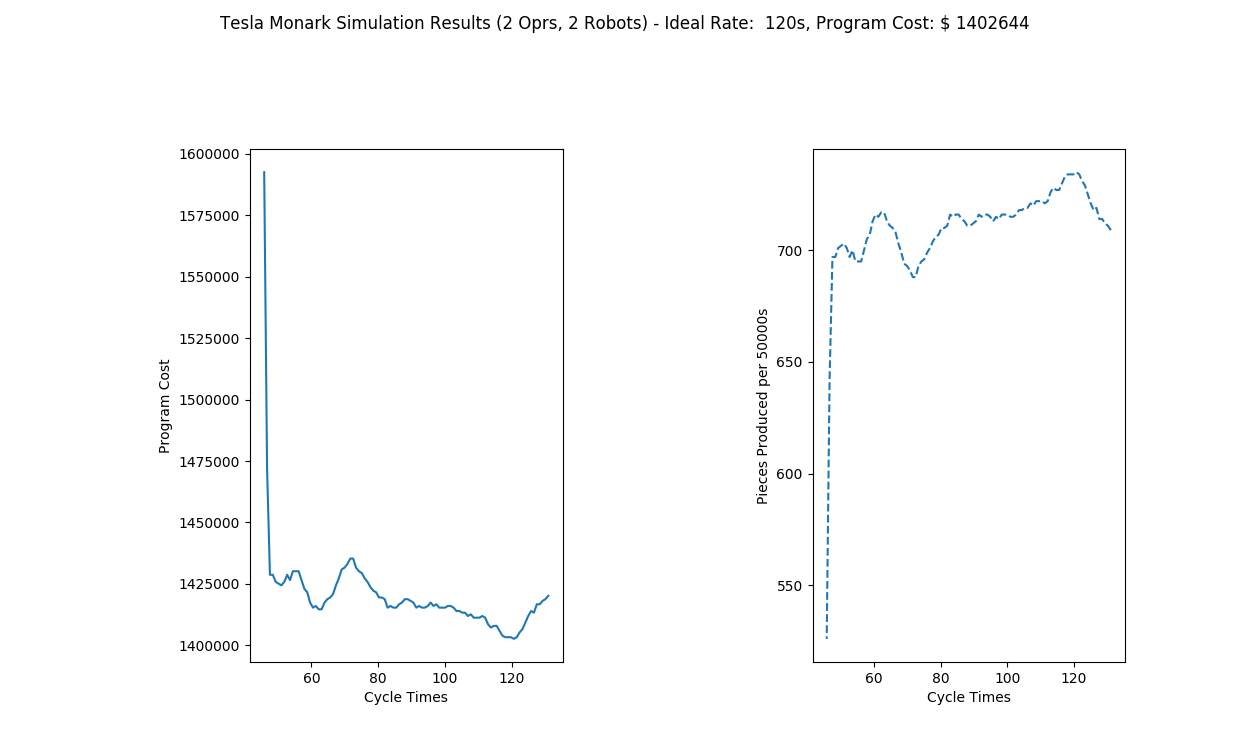
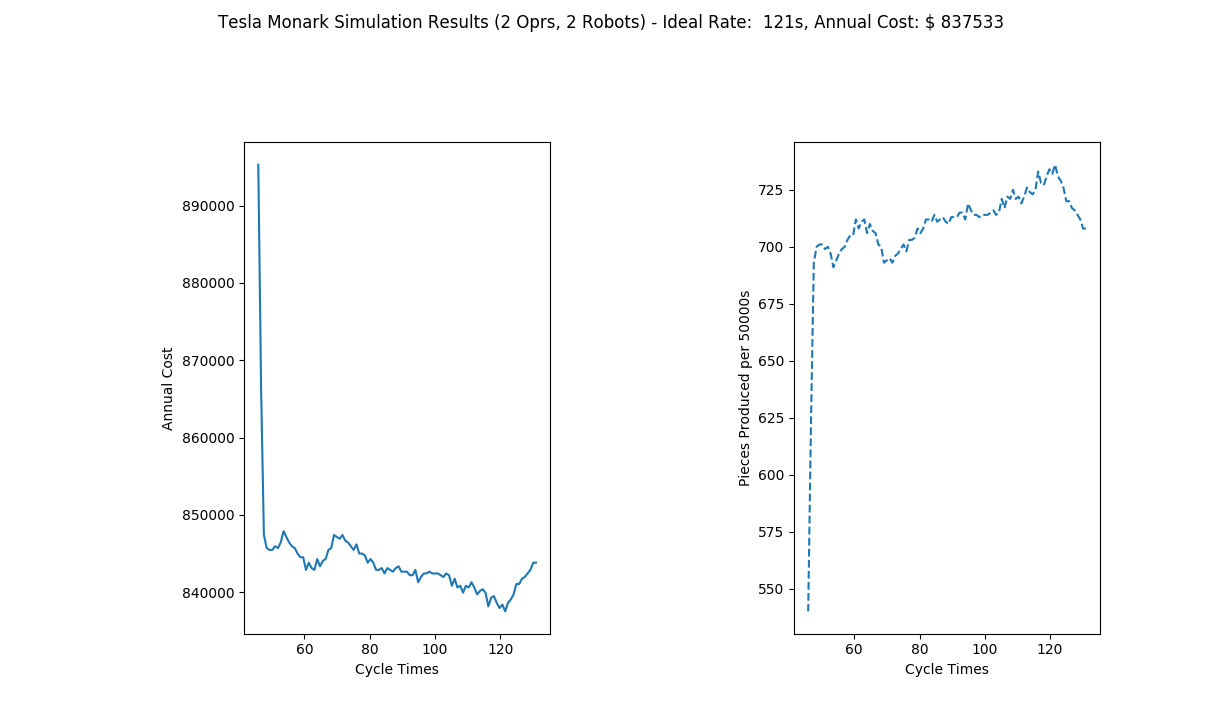
Added packaging costs, changed to annual instead of program life

diff --git a/tesla.py b/tesla.py
@@ -10,8 +10,7 @@ class G:
 	#Environment constants
 	SIMULATION_TIME = 50000
 	EAU = 120000
-	PROGRAM_LIFE = 3
-	seed(seed=23)
+	seed(seed=10)
 	
 	#Operator constants
 	MAIN_OPERATORS = 1
@@ -28,7 +27,7 @@ class G:
 	ROUTER_LOAD_TIME = 10.97
 	ROUTER_LOAD_TIME_STDEV = 1.19
 	ROUTER_UNLOAD_TIME = 17.43
-	ROUTER_UNLOAD_TIME_STDEV = 2.46
+	ROUTER_UNLOAD_TIME_STDEV = 5.46
 	ROUTER_YIELD = 1
 	
 	LOAD_STATION_LOAD_TIME = 15
@@ -42,24 +41,24 @@ class G:
 	THERMOFORMER_RUNTIME_STDEV = 0.50
 	
 	SPLITTER_CAPACITY = 1
-	SPLITTER_RUNTIME = 8
-	SPLITTER_RUNTIME_STDEV = 1
+	SPLITTER_RUNTIME = 8.58
+	SPLITTER_RUNTIME_STDEV = 0.75
 	SPLITTER_YIELD = 2
 	
 	TRIMMER_CAPACITY = 1
 	TRIMMER_RUNTIME = 24.29
-	TRIMMER_RUNTIME_STDEV = 2.30
+	TRIMMER_RUNTIME_STDEV = 4.30
 	TRIMMER_YIELD = 1
 	
 	DRILLER_CAPACITY = 1
 	DRILLER_RUNTIME = 11.97
-	DRILLER_RUNTIME_STDEV = 1.58
+	DRILLER_RUNTIME_STDEV = 2.58
 	DRILLER_YIELD = 1
 	
 	BOX_BUILDTIME = 15
 	BOX_BUILDTIME_STDEV = 2
 	BOX_PACKTIME = 12.06
-	BOX_PACKTIME_STDEV = 1.55
+	BOX_PACKTIME_STDEV = 2.55
 	BOX_CLOSETIME = 33
 	BOX_CLOSETIME_STDEV = 2
 	
@@ -73,7 +72,8 @@ class G:
 	BOX_SIZE = 20
 	
 	#Costs
-	SHEET_COST = 2.56826 #USD/sheet
+	SHEET_COST = 2.56826 * 2 #USD/sheet
+	BOX_COST = .51675 #USD/part
 	OPERATOR_RATE = 18.00 #USD/hr
 	MACHINE_RATE = 14.78 #USD/hr
 	OVERHEAD_RATE = 19.4964 # USD/hr
@@ -162,7 +162,7 @@ class Load_Station(object):
 			try:
 				with operator.request() as opr:
 					yield opr
-					yield env.timeout(max(0, normal(loc=G.LOAD_STATION_UNLOAD_TIME, scale=G.LOAD_STATION_UNLOAD_TIME_STDEV)))
+					yield env.timeout(max(5, normal(loc=G.LOAD_STATION_UNLOAD_TIME, scale=G.LOAD_STATION_UNLOAD_TIME_STDEV)))
 					#print("{0} unloaded a formed sheet at {1}".format(self.name, env.now))
 					self.status = 'EMPTY'
 			except simpy.Interrupt as interrupt:
@@ -176,7 +176,7 @@ class Load_Station(object):
 			try:
 				with operator.request() as opr:
 					yield opr
-					yield env.timeout(max(0, normal(loc=G.LOAD_STATION_LOAD_TIME, scale=G.LOAD_STATION_LOAD_TIME_STDEV)))
+					yield env.timeout(max(7.5, normal(loc=G.LOAD_STATION_LOAD_TIME, scale=G.LOAD_STATION_LOAD_TIME_STDEV)))
 					yield self.capacity.put(1)
 					#print("{0} loaded a sheet at {1}".format(self.name, env.now))
 					if self.capacity.level == G.LOAD_STATION_CAPACITY:
@@ -202,7 +202,7 @@ class Splitter(object):
 			yield self.raw_stock.get(G.SPLITTER_CAPACITY)
 			with operator.request() as opr:
 				yield opr
-				yield env.timeout(max(0, normal(loc=G.SPLITTER_RUNTIME, scale=G.SPLITTER_RUNTIME_STDEV)))
+				yield env.timeout(max(5, normal(loc=G.SPLITTER_RUNTIME, scale=G.SPLITTER_RUNTIME_STDEV)))
 				self.parts += G.SPLITTER_YIELD
 			yield self.finished_stock.put(G.SPLITTER_YIELD)
 			#print("{0} split a sheet at {1}".format(self.name, env.now))
@@ -223,7 +223,7 @@ class Hotwire_Trimmer(object):
 			yield self.raw_stock.get(G.TRIMMER_CAPACITY)
 			with operator.request() as opr:
 				yield opr
-				yield env.timeout(max(0, normal(loc=G.TRIMMER_RUNTIME, scale=G.TRIMMER_RUNTIME_STDEV)))
+				yield env.timeout(max(10, normal(loc=G.TRIMMER_RUNTIME, scale=G.TRIMMER_RUNTIME_STDEV)))
 				self.parts += G.TRIMMER_YIELD
 			yield self.finished_stock.put(G.TRIMMER_YIELD)
 			#print("{0} trimmed a part at {1}".format(self.name, env.now))
@@ -244,7 +244,7 @@ class Driller(object):
 			yield self.raw_stock.get(G.DRILLER_CAPACITY)
 			with operator.request() as opr:
 				yield opr
-				yield env.timeout(max(0, normal(loc=G.DRILLER_RUNTIME, scale=G.DRILLER_RUNTIME_STDEV)))
+				yield env.timeout(max(5, normal(loc=G.DRILLER_RUNTIME, scale=G.DRILLER_RUNTIME_STDEV)))
 				self.parts += G.DRILLER_YIELD
 			yield self.finished_stock.put(G.DRILLER_YIELD)
 			#print("{0} drilled a part at {1}".format(self.name, env.now))
@@ -279,14 +279,14 @@ class Router(object):
 	def unload_part(self, operator, env):
 		with operator.request() as opr:
 			yield opr
-			yield env.timeout(max(0, normal(loc=G.ROUTER_UNLOAD_TIME, scale=G.ROUTER_UNLOAD_TIME_STDEV)))
+			yield env.timeout(max(10, normal(loc=G.ROUTER_UNLOAD_TIME, scale=G.ROUTER_UNLOAD_TIME_STDEV)))
 			#print("{0} unloaded a part at {1}".format(self.name, env.now))
 			self.status = 'EMPTY'
 	
 	def load_part(self, operator, env):
 		with operator.request() as opr:
 			yield opr
-			yield env.timeout(max(0, normal(loc=G.ROUTER_LOAD_TIME, scale=G.ROUTER_LOAD_TIME_STDEV)))
+			yield env.timeout(max(7, normal(loc=G.ROUTER_LOAD_TIME, scale=G.ROUTER_LOAD_TIME_STDEV)))
 			#print("{0} loaded a part at {1}".format(self.name, env.now))
 			self.status = 'READY'
 
@@ -337,7 +337,7 @@ class Boxer(object):
 			if self.status == 'READY':
 				yield self.raw_stock.get(1)
 				with self.operator.request() as opr:
-					yield self.env.timeout(max(0, normal(loc=G.BOX_PACKTIME, scale=G.BOX_PACKTIME_STDEV)))
+					yield self.env.timeout(max(4, normal(loc=G.BOX_PACKTIME, scale=G.BOX_PACKTIME_STDEV)))
 				yield self.finished_stock.put(1)
 			
 			if self.finished_stock.level == self.finished_stock.capacity:
@@ -346,13 +346,13 @@ class Boxer(object):
 	def build_box(self):
 		with self.operator.request() as opr:
 			yield opr
-			yield self.env.timeout(max(0, normal(loc=G.BOX_BUILDTIME, scale=G.BOX_BUILDTIME_STDEV)))
+			yield self.env.timeout(max(10, normal(loc=G.BOX_BUILDTIME, scale=G.BOX_BUILDTIME_STDEV)))
 			self.status = 'READY'
 	
 	def close_box(self):
 		with self.operator.request() as opr:
 			yield opr
-			yield self.env.timeout(max(0, normal(loc=G.BOX_CLOSETIME, scale=G.BOX_CLOSETIME_STDEV)))
+			yield self.env.timeout(max(20, normal(loc=G.BOX_CLOSETIME, scale=G.BOX_CLOSETIME_STDEV)))
 			self.status = 'NO BOX'
 		self.boxes += 1
 		#print('Finished box number {0}'.format(self.boxes))
@@ -390,7 +390,7 @@ def main(user_input=False):
 	#Robotic Routers
 	router_one = Router('Router 1', env, main_ops, split_formed_stock, routed_part_stock)
 	router_two = Router('Router 2', env, sup_ops, split_formed_stock, routed_part_stock)
-	router_three = Router('Router 3', env, sup_ops, split_formed_stock, routed_part_stock)
+	#router_three = Router('Router 3', env, sup_ops, split_formed_stock, routed_part_stock)
 
 
 	#Hotwire Trimmer
@@ -408,7 +408,7 @@ def main(user_input=False):
 		print('{0} produced {1} sheets'.format(sheeter_one.name, sheeter_one.sheets))
 		print('{0} produced {1} parts'.format(router_one.name, router_one. parts))
 		print('{0} produced {1} parts'.format(router_two.name, router_two. parts))
-		print('{0} produced {1} parts'.format(router_three.name, router_three. parts))
+		#print('{0} produced {1} parts'.format(router_three.name, router_three. parts))
 		print('{0} produced {1} parts'.format(trimmer_one.name, trimmer_one.parts))
 		print('{0} produced {1} parts'.format(driller_one.name, driller_one.parts))
 		print('{0} produced {1} boxes'.format(boxer_one.name, boxer_one.boxes))
@@ -421,7 +421,7 @@ def main(user_input=False):
 def cost_plot(cycle_times_arr, cost_arr, pcs_arr, title=None):
 	plt.subplot(121)
 	plt.plot(cycle_times_arr, cost_arr)
-	plt.ylabel("Program Cost")
+	plt.ylabel("Annual Cost")
 	plt.xlabel("Cycle Times")
 	
 	if title != None:
@@ -457,18 +457,18 @@ def cost_sim():
 		pcs_arr.append(pcs)
 		cycle_times_arr.append(G.THERMOFORMER_RUNTIME)
 		G.THERMOFORMER_RUNTIME -= STEP_SIZE
-		run_cost = pcs * G.SHEET_COST + labor_cost
+		run_cost = pcs * (G.SHEET_COST + G.BOX_COST) + labor_cost
 		print("run_cost: {0} pcs: {1}".format(run_cost, pcs))
-		program_cost = G.EAU * G.PROGRAM_LIFE / pcs * run_cost
-		if program_cost < best_cost or best_cost == 0:
+		annual_cost = G.EAU / pcs * run_cost
+		if annual_cost < best_cost or best_cost == 0:
 			best = G.THERMOFORMER_RUNTIME
-			best_cost = program_cost
+			best_cost = annual_cost
 		
-		cost_arr.append(program_cost)		
+		cost_arr.append(annual_cost)		
 	#print("Cycles:\n{0}".format(cycle_times_arr))
 	#print("PCS:\n{0}".format(pcs_arr))
 	#print("Costs:\n{0}".format(cost_arr))
-	cost_plot(cycle_times_arr, cost_arr, pcs_arr, title="Tesla Monark Simulation Results (2 Oprs, 3 Robots) - Ideal Rate: {0: 0.0f}s, Program Cost: ${1: 0.0f}".format(best, best_cost))
+	cost_plot(cycle_times_arr, cost_arr, pcs_arr, title="Tesla Monark Simulation Results (2 Oprs, 2 Robots) - Ideal Rate: {0: 0.0f}s, Annual Cost: ${1: 0.0f}".format(best, best_cost))
 		
 		
 
